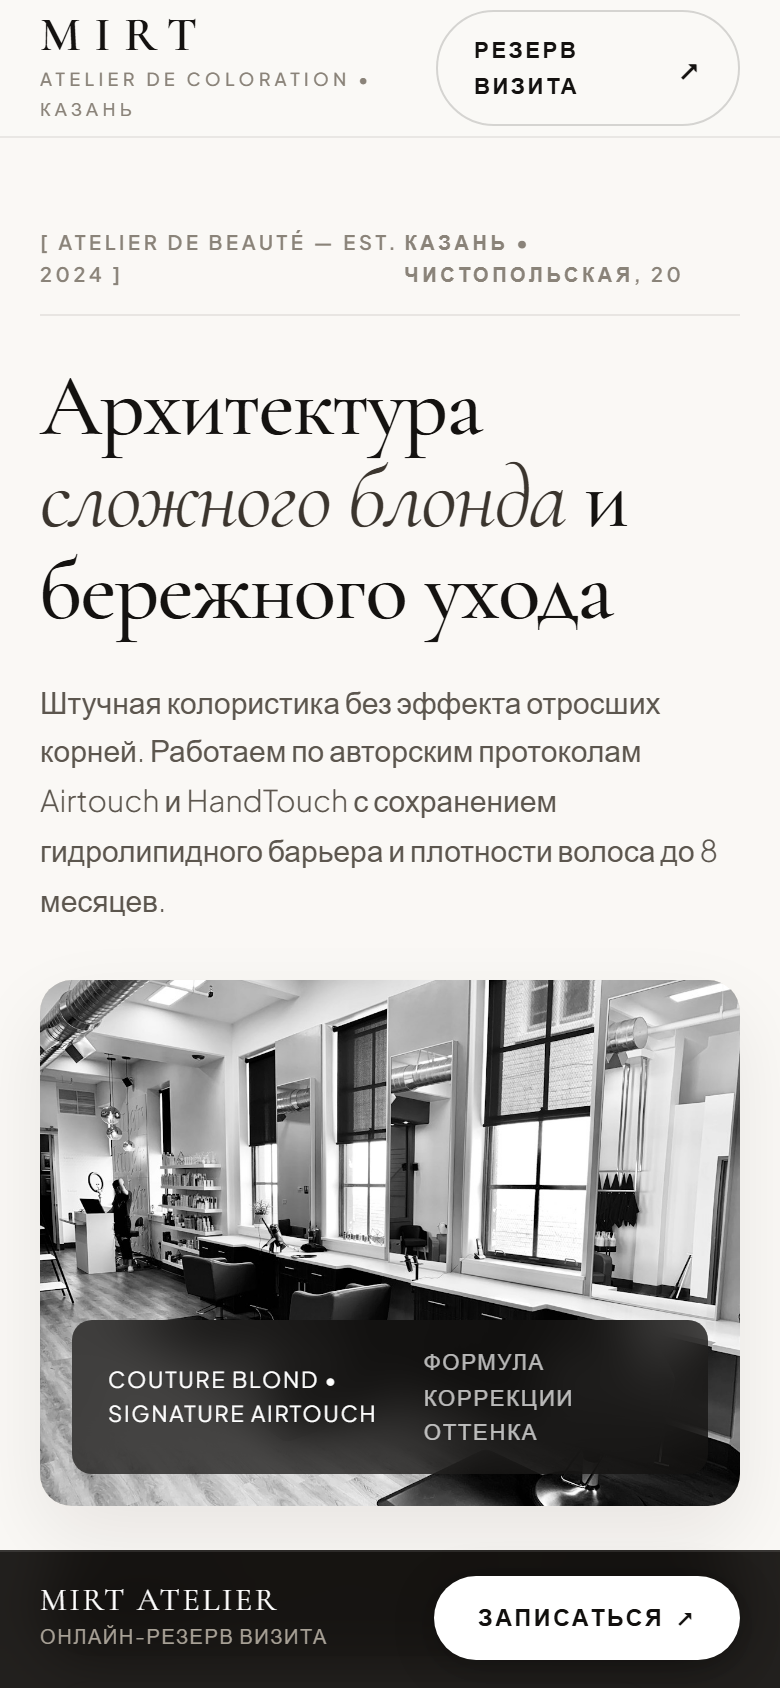
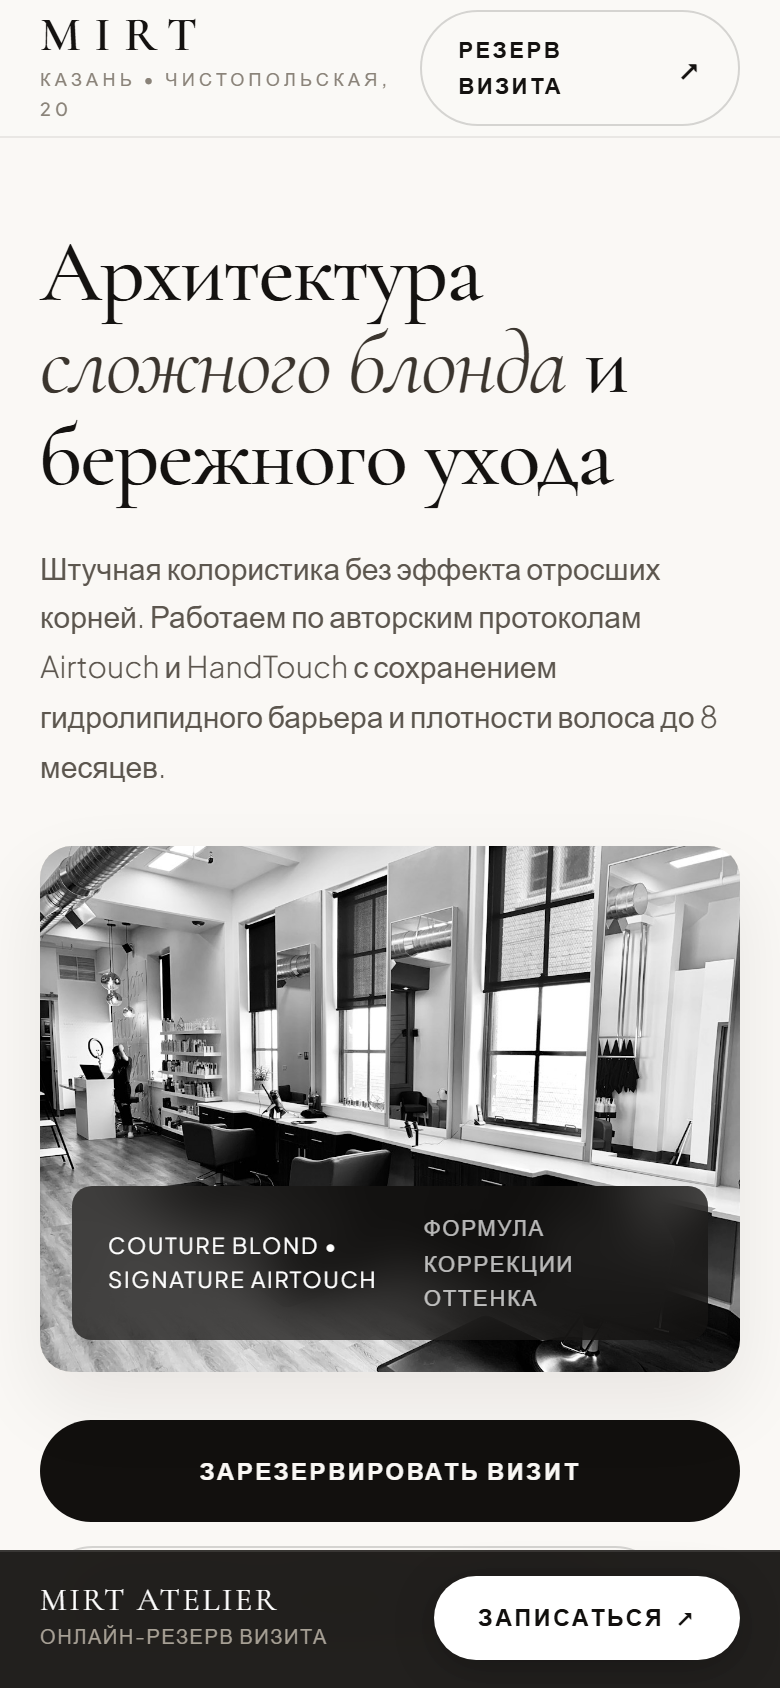
fix: remove redundant double header and set stylish female master portrait

diff --git a/mirt/index.html b/mirt/index.html
@@ -788,10 +788,10 @@
       <div class="header-row">
         <div class="brand-mark">
           <span class="brand-name">MIRT</span>
-          <span class="brand-sub">ATELIER DE COLORATION • КАЗАНЬ</span>
+          <span class="brand-sub">КАЗАНЬ • ЧИСТОПОЛЬСКАЯ, 20</span>
         </div>
 
-        <a href="#booking" class="header-cta-btn" onclick="openConciergeModal(event)">
+        <a href="#formula-calc" class="header-cta-btn">
           <span>Резерв визита</span>
           <span style="font-size: 14px;">↗</span>
         </a>
@@ -802,11 +802,6 @@
   <!-- Editorial Hero Section -->
   <section class="hero-editorial">
     <div class="container">
-      <div class="hero-meta-strip">
-        <span class="meta-tag">[ ATELIER DE BEAUTÉ — EST. 2024 ]</span>
-        <span class="meta-tag">КАЗАНЬ • ЧИСТОПОЛЬСКАЯ, 20</span>
-      </div>
-
       <h1 class="serif-title hero-headline">
         Архитектура <em>сложного блонда</em> и бережного ухода
       </h1>
@@ -1081,7 +1076,7 @@
 
       <div class="master-portrait-card">
         <div class="master-portrait-photo">
-          <img src="images/master_colorist.jpg" alt="Мастер колорист Mirt">
+          <img src="images/master_elena_alt.jpg" alt="Мастер колорист Mirt Елена Миронова">
         </div>
         <div class="master-portrait-info">
           <div class="master-name">Елена Миронова</div>
